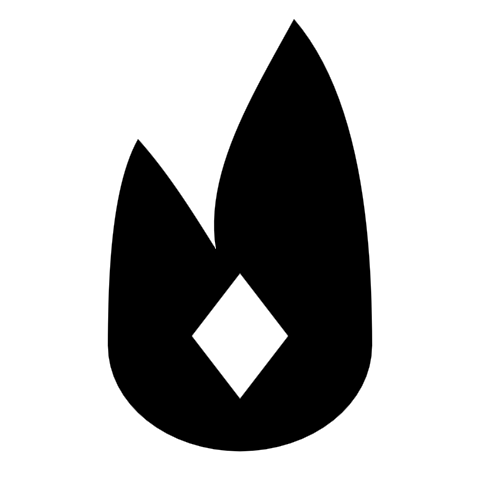
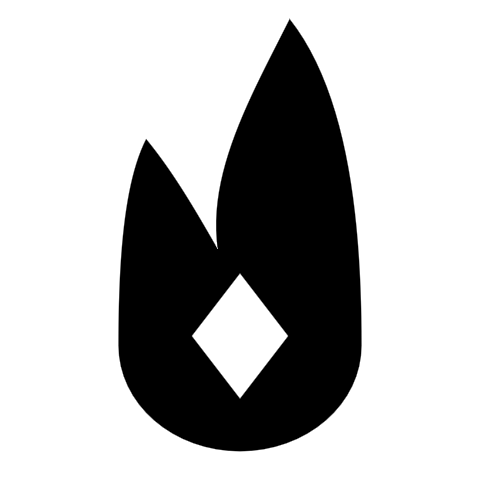
Icone delle statistiche: leggibili da piccole, ombra unita, fiamma e scia
Bru: «ecco, adesso è molto meglio, continuiamo che siamo sulla buona
strada». Ho sistemato i punti deboli che avevo segnalato io e ho guardato
le icone pixel per pixel a 16, 20, 24 e 32.

- PICCOLE: a 16 pixel un taglio di 5 su 100 è largo 0,8 pixel, la
  sfumatura se lo mangia e la spada col fendente diventa una macchia.
  Sotto i 32 pixel il taglio cresce fino a restare largo 1,4 pixel, a
  mezze unità (taglio_per); il disegno si costruisce per quel taglio. La
  fiamma della lanterna si stringe per restare staccata dal vetro.
- OMBRA DEL TIMBRO: era l'insieme dei pezzi, spostato, e l'arancio
  lampeggiava a righe nei vuoti (fra la fascia e la corona, fra la falce e
  la spada). Adesso è una sagoma sola, chiusa: i pezzi si allargano finché
  si toccano, si fondono e si restringono. Sopra va la stessa sagoma col
  colore del fondo, così i vuoti restano neri come i tagli e l'arancio si
  vede solo fuori dal contorno.
- FUOCO: più snello nel Fattore (largo 1,15 invece di 1,25), e girato
  nel verso delle altre figure. Nel verso sbagliato Geometry2D non lo
  allargava, e il timbro del Fattore restava senza ombra.
- VELOCITÀ: della copia fuori registro resta solo il pezzo grande; la lama
  sottile che sporgeva sotto, a 16 pixel, era una sbavatura. Il fulmine si
  allarga un poco per tenere il peso (-7% dalla media).

Pesi: tutte fra -10% e +11% dalla media.

prova_le_icone_si_reggono controlla anche:
- la versione a 16 pixel: niente briciole, strati coerenti pari e
  dispari;
[…]

diff --git a/docs/icone_statistiche.md b/docs/icone_statistiche.md
@@ -10,19 +10,23 @@ Ogni icona è due figure che ne fanno una terza. Il disegno sta su una griglia d
 i bordi T = 10. La pienezza è l'inchiostro sul quadrato di 100, contata su una griglia
 di punti ogni mezza unità.
 
+I file sono il disegno a misura piena. Sotto i 32 pixel il gioco le disegna coi tagli più
+larghi (mai sotto 1,4 pixel, a mezze unità), e timbrate l'ombra è la sagoma chiusa:
+i vuoti fra un pezzo e l'altro restano del colore del fondo.
+
 | icona | le due figure | pienezza | dalla media | ingombro (unità) |
 |---|---|---|---|---|
-| Punti vita | il cuore + la cicatrice cucita | 0.320 | +7.6% | da 10.0,16.0 a 90.0,88.0 |
-| Attacco | la spada + il fendente | 0.270 | -9.2% | da 4.0,4.0 a 89.6,91.0 |
-| Difesa | lo scudo + i merli | 0.327 | +9.8% | da 18.0,8.0 a 82.0,94.0 |
-| Velocità | il fulmine + la sua eco | 0.271 | -9.0% | da 18.0,4.0 a 82.0,96.0 |
-| Intelligenza | l'occhio + la serratura | 0.317 | +6.4% | da 4.0,19.0 a 96.0,81.0 |
-| Forza mentale | la lanterna + il fuoco | 0.266 | -10.7% | da 22.0,5.0 a 78.0,90.0 |
-| Fattore | il fuoco + l'emblema | 0.309 | +3.8% | da 22.5,4.0 a 77.5,94.0 |
-| Maestria del dominio | la corona + la barra del dominio | 0.320 | +7.4% | da 8.5,8.0 a 91.5,81.0 |
-| Aura | la scintilla + l'emblema | 0.280 | -6.1% | da 4.0,4.0 a 96.0,96.0 |
+| Punti vita | il cuore + la cicatrice cucita | 0.320 | +8.5% | da 10.0,16.0 a 90.0,88.0 |
+| Attacco | la spada + il fendente | 0.270 | -8.4% | da 4.0,4.0 a 89.6,91.0 |
+| Difesa | lo scudo + i merli | 0.327 | +10.8% | da 18.0,8.0 a 82.0,94.0 |
+| Velocità | il fulmine + la sua eco | 0.275 | -7.0% | da 16.0,4.0 a 86.0,96.0 |
+| Intelligenza | l'occhio + la serratura | 0.317 | +7.4% | da 4.0,19.0 a 96.0,81.0 |
+| Forza mentale | la lanterna + il fuoco | 0.266 | -9.9% | da 22.0,5.0 a 78.0,90.0 |
+| Fattore | il fuoco + l'emblema | 0.282 | -4.5% | da 24.7,4.0 a 75.3,94.0 |
+| Maestria del dominio | la corona + la barra del dominio | 0.320 | +8.4% | da 8.5,8.0 a 91.5,81.0 |
+| Aura | la scintilla + l'emblema | 0.280 | -5.3% | da 4.0,4.0 a 96.0,96.0 |
 
-Media 0.298.
+Media 0.295.
 
 - **Punti vita** (`hp`): il cuore e la cicatrice cucita. Chi tocca il confine e torna: il trauma ricucito è forza.
 - **Attacco** (`attacco`): la spada e il fendente. Il colpo lascia uno squarcio alle spalle della lama.
